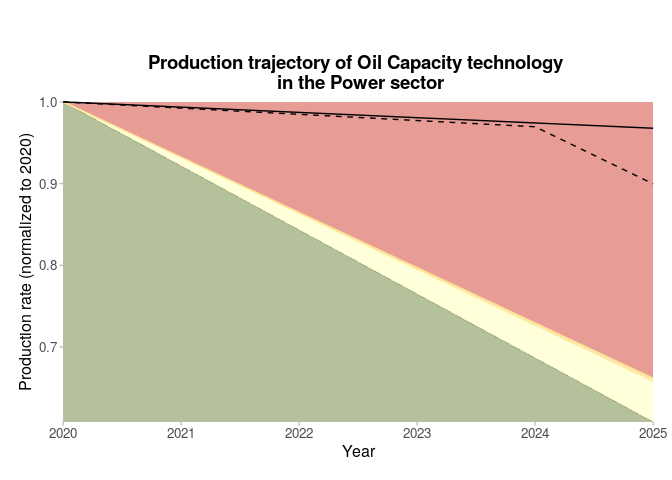
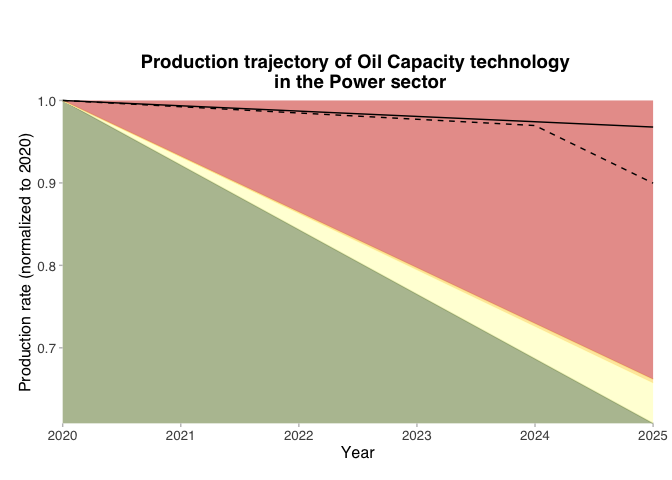
Modify README

diff --git a/README.md b/README.md
@@ -47,11 +47,10 @@ data_trajectory <- filter_data_for_trajectory_chart(example_data,
 )
 
 scenario_specs <- data.frame(
-  scenario = c("sds", "sps", "cps"),
-  color = c("#9CAB7C", "#FFFFCC", "#FDE291"),
-  label = c("SDS", "STEPS", "CPS")
-)
-worstColor <- "#E07B73"
+  scenario = c("sds","sps","cps","worse"),
+  color = c("#9CAB7C","#FFFFCC","#FDE291","#E07B73"),
+  label = c("SDS","STEPS","CPS","worse")
+  )
 mainLineMetric <- data.frame(metric = "projected", label = "Portfolio")
 additionalLineMetrics <- data.frame(metric = "corporate_economy", label = "Corporate Economy")
 
@@ -59,10 +58,9 @@ plot <- plot_trajectory_chart(data_trajectory,
   plotTitle = "Production trajectory of Oil Capacity technology \n in the Power sector",
   xTitle = "Year", yTitle = "Production rate (normalized to 2020)",
   annotateData = FALSE,
-  scenario_specs, worstColor,
+  scenario_specs_good_to_bad = scenario_specs,
   mainLineMetric, additionalLineMetrics
 )
-#> Selecting by value_low
 
 plot
 ```
